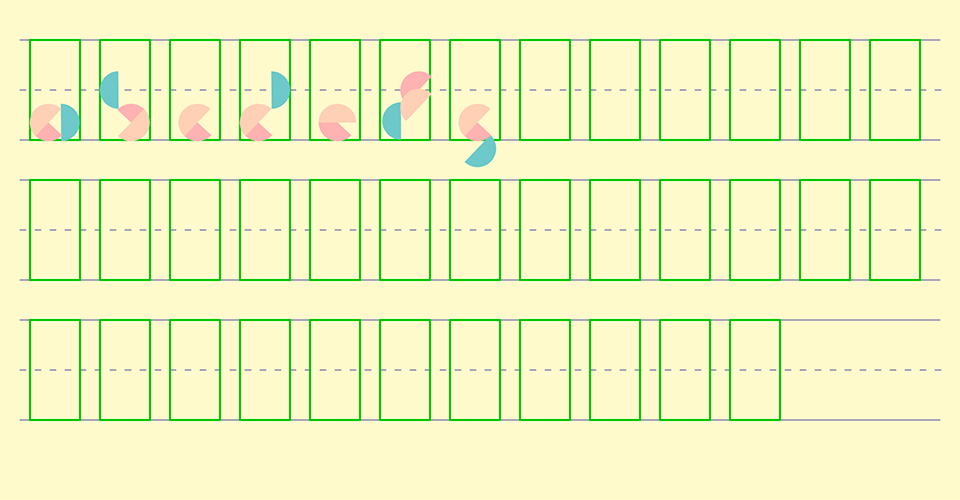
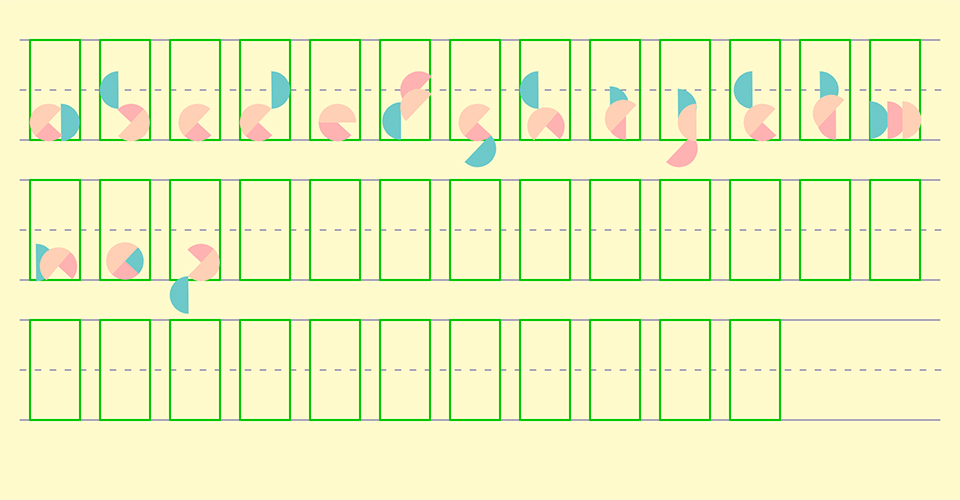
Update README, js. files and images
For this commit, I added letters h to p. This set had me exploring new ways to use the arcs to form new shapes, and as such, all files, images and the README have been updated.

diff --git a/letters.js b/letters.js
@@ -160,49 +160,208 @@ const alphabet = {
     "arcE3" : 43.17,
   },
   "H": {
-    "size": 50,
-    "offsetx": 15,
-    "offsety": 0
+    "arcW" : 75,
+    "arcH" : 75,
+
+    //arc 1
+    "arcX" : 37,
+    "arcY" : 100,
+    "arcS" : 7.85,
+    "arcE" : 23.55,
+
+    //arc 2
+    "arcX2" : 52,
+    "arcY2" : 173,
+    "arcS2" : 35.3,
+    "arcE2" : 19.6,
+
+    //arc 3
+    "arcX3" : 52,
+    "arcY3" : 172,
+    "arcS3" : 27.4,
+    "arcE3" : 11.7,
   },
   "I": {
-    "size": 50,
-    "offsetx": 15,
-    "offsety": 0
+    "arcW" : 75,
+    "arcH" : 75,
+
+    //arc 1
+    "arcX" : 40,
+    "arcY" : 130,
+    "arcS" : 23.55,
+    "arcE" : 7.85,
+
+    //arc 2
+    "arcX2" : 72,
+    "arcY2" : 162,
+    "arcS2" : 7.85,
+    "arcE2" : 23.55,
+
+    //arc 3
+    "arcX3" : 67,
+    "arcY3" : 157,
+    "arcS3" : 27.47,
+    "arcE3" : 43.17,
+
   },
   "J": {
-    "size": 50,
-    "offsetx": 15,
-    "offsety": 0
+    "arcW" : 75,
+    "arcH" : 75,
+
+    //arc 1
+    "arcX" : 36,
+    "arcY" : 135,
+    "arcS" : 23.55,
+    "arcE" : 7.85,
+
+    //arc 2
+    "arcX2" : 38,
+    "arcY2" : 217,
+    "arcS2" : 43.17,
+    "arcE2" : 27.47,
+
+
+    //arc 3
+    "arcX3" : 73,
+    "arcY3" : 165,
+    "arcS3" : 7.85,
+    "arcE3" : 23.55,
+
   },
   "K": {
-    "size": 50,
-    "offsetx": 15,
-    "offsety": 0
+    "arcW" : 75,
+    "arcH" : 75,
+
+    //arc 1
+    "arcX" : 45,
+    "arcY" : 100,
+    "arcS" : 7.85,
+    "arcE" : 23.55,
+
+    //arc 2
+    "arcX2" : 65,
+    "arcY2" : 165,
+    "arcS2" : 19.6,
+    "arcE2" : 3.9,
+
+    //arc 3
+    "arcX3" : 65,
+    "arcY3" : 165,
+    "arcS3" : 27.47,
+    "arcE3" : 43.17,
   },
   "L": {
-    "size": 50,
-    "offsetx": 15,
-    "offsety": 0
+    "arcW" : 75,
+    "arcH" : 75,
+
+    //arc 1
+    "arcX" : 40,
+    "arcY" : 100,
+    "arcS" : 23.55,
+    "arcE" : 7.85,
+
+    //arc 2
+    "arcX2" : 72,
+    "arcY2" : 162,
+    "arcS2" : 7.85,
+    "arcE2" : 23.55,
+
+    //arc 3
+    "arcX3" : 63,
+    "arcY3" : 147,
+    "arcS3" : 27.47,
+    "arcE3" : 43.17,
   },
   "M": {
-    "size": 50,
-    "offsetx": 15,
-    "offsety": 0
+    "arcW" : 75,
+    "arcH" : 75,
+
+    //arc 1
+    "arcX" : 0,
+    "arcY" : 160,
+    "arcS" : 23.55,
+    "arcE" : 7.85,
+
+    //arc 2
+    "arcX2" : 35,
+    "arcY2" : 160,
+    "arcS2" : 23.55,
+    "arcE2" : 7.85,
+
+    //arc 3
+    "arcX3" : 65,
+    "arcY3" : 160,
+    "arcS3" : 23.55,
+    "arcE3" : 7.85,
+
   },
   "N": {
-    "size": 50,
-    "offsetx": 15,
-    "offsety": 0
+    "arcW" : 75,
+    "arcH" : 75,
+
+    //arc 1
+    "arcX" : 12,
+    "arcY" : 165,
+    "arcS" : 23.55,
+    "arcE" : 7.85,
+
+    //arc 2
+    "arcX2" : 57,
+    "arcY2" : 173,
+    "arcS2" : 35.3,
+    "arcE2" : 19.6,
+
+    //arc 3
+    "arcX3" : 57,
+    "arcY3" : 172,
+    "arcS3" : 27.4,
+    "arcE3" : 11.7,
+
   },
   "O": {
-    "size": 50,
-    "offsetx": 15,
-    "offsety": 0
+    "arcW" : 75,
+    "arcH" : 75,
+
+    //arc 1
+    "arcX" : 50,
+    "arcY" : 162,
+    "arcS" : 11.7,
+    "arcE" : 19.6,
+
+    //arc 2
+    "arcX2" : 50,
+    "arcY2" : 162,
+    "arcS2" : 19.6,
+    "arcE2" : 3.9,
+
+    //arc 3
+    "arcX3" : 50,
+    "arcY3" : 162,
+    "arcS3" : 27.47,
+    "arcE3" : 43.17,
   },
   "P": {
-    "size": 50,
-    "offsetx": 15,
-    "offsety": 0
+    "arcW" : 75,
+    "arcH" : 75,
+
+    //arc 1
+    "arcX" : 37,
+    "arcY" : 230,
+    "arcS" : 7.85,
+    "arcE" : 23.55,
+
+    //arc 2
+    "arcX2" : 62,
+    "arcY2" : 165,
+    "arcS2" : 3.9,
+    "arcE2" : 19.6,
+
+    //arc 3
+    "arcX3" : 62,
+    "arcY3" : 165,
+    "arcS3" : 43.17,
+    "arcE3" : 27.47,
+
   },
   "Q": {
     "size": 50,

diff --git a/README.md b/README.md
@@ -1,6 +1,6 @@
 ## MDDN 242 2020 Assignment 2
 18/05/2020
-Here are the forst seven letters of the alphabet, using the arcs. So far, I am happy with how these letters have turned out. I am not 100% satisfied with the design of the f, however, I wish to continue with my alphabet, just so I have a better idea of how my alphabet will look together as a whole. Once my alphabet is complete, I will consider whether I need to make changes based on preference and design cohesion. I do lke the idea of having the darkest colour represent either the stem of the letter form, or the portion of the letter form that goes beneath the base, so I plan to continue with that approach. I would like to try to and prevent the dark colour from overlapping, however that may not be possible. 
+Here are the nest few letters up to p. This set of letters was interesting as I started dealing with letters such as i and l, which had no curved lines at all. It took a little bit of experimentation before I arrived upon these interpretations of those forms. I also made the decicion to use the dark coloured arc as the dot that normally appears above the lower-case i and j, as realized that even though the dots were very small and miniscule compared to the rest of the form, they were very noticeable on their own. When I considered omitting them, the forms did not look like a complete representation. The m was an interesting challenge, as I did not have a lot of space to work with in placing the three arcs. After some consideration, I became inspired by the black letter representation of m, in which I decided to place all the arcs alongside eachother as such. 
 
 The fourteen parameters per letter:
 "arcW" : width of all arcs
